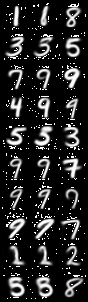
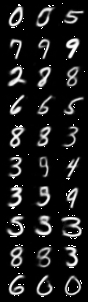
emnist + new triplets"

diff --git a/ambiguous/train/train_MNIST_final_ccvae.py b/ambiguous/train/train_MNIST_final_ccvae.py
@@ -1,6 +1,7 @@
 from distutils.archive_util import make_tarball
 import os
 import importlib
+from pickle import TRUE
 import numpy as np
 import matplotlib.pyplot as plt
 import time
@@ -45,6 +46,7 @@ def main():
     parser.add_argument('--lr', type=float, default=1e-3)
     parser.add_argument('--seed', type=int, default=42)
     parser.add_argument('--device', type=str, default='cuda')
+    parser.add_argument('--dataset', type=str, default='mnist')
     parser.add_argument('--train_path', type=str, default='')
     parser.add_argument('--valid_path', type=str, default='')
     parser.add_argument('--test_path', type=str, default='')
@@ -88,6 +90,7 @@ def main():
     valid_path = args.valid_path 
     test_path = args.test_path
     data_path = args.data_path
+    dataset = args.dataset
     model_path = args.path
     train_cvae = args.train_cvae
     recon_path = args.recon_path
@@ -118,13 +121,26 @@ def main():
     # np.random.seed(seed)
     # torch.manual_seed(seed)
 
-    transform = transforms.Compose([
-        transforms.ToTensor()
-    ])
-    dataset = datasets.MNIST(root=data_path, download=True, train=True, transform=transform)
-    train_set, val_set = torch.utils.data.random_split(dataset, [round(0.8*len(dataset)), round(0.2*len(dataset))])
-    test_set = datasets.MNIST(root=data_path, download=True, train=False, transform=transform)
-    print("Loaded MNIST")
+    if dataset == 'mnist':
+        transform = transforms.Compose([
+            transforms.ToTensor()
+        ])
+        dataset = datasets.MNIST(root=data_path, download=True, train=True, transform=transform)
+        train_set, val_set = torch.utils.data.random_split(dataset, [round(0.8*len(dataset)), round(0.2*len(dataset))])
+        test_set = datasets.MNIST(root=data_path, download=True, train=False, transform=transform)
+        print("Loaded MNIST")
+    elif dataset == 'emnist':
+        transform = transforms.Compose([
+            transforms.ToTensor(),
+            lambda x: x.rot90(1,[2,1]).flip(2)
+        ])
+        dataset = datasets.EMNIST(root=data_path, download=True, split='byclass', train=True, transform=transform)
+        new_dataset = partition_dataset(dataset, range(10, 36))
+        train_set, val_set = torch.utils.data.random_split(new_dataset, [round(0.8*len(new_dataset)), round(0.2*len(new_dataset))])
+        test_set = datasets.EMNIST(root=data_path, download=True, split='byclass', train=False, transform=transform)
+
+    else:
+        print("dataset not supported")
     # Dataloaders
     train_loader = DataLoader(train_set, batch_size=batch_size,shuffle=True)
     val_loader = DataLoader(val_set, batch_size=batch_size)

diff --git a/ambiguous/train/train_vae_readout.py b/ambiguous/train/train_vae_readout.py
@@ -125,7 +125,7 @@ def main():
     test_size = args.test_size
     readout_h_dim = args.readout_h_dim
     device = args.device # torch.device("cuda" if torch.cuda.is_available() else "cpu")
-    root = args.data_path
+    data_path = args.data_path
     seed = args.seed
     np.random.seed(seed)
     torch.manual_seed(seed)
@@ -146,17 +146,26 @@ def main():
     ccvae.load_state_dict(ckpt); ccvae.eval()
     print("Loaded ccvae checkpoint.")
 
-    transform = transforms.Compose([
-        transforms.ToTensor()
-    ])
-    # dataset = RecDataset(ccvae, train_size, n_cls, latent_dim)
-    # train_set, val_set = torch.utils.data.random_split(dataset, [round(0.8*len(dataset)), round(0.2*len(dataset))])
-    # test_set = RecDataset(ccvae, test_size, n_cls, latent_dim)
-    # print("instantiated custom dataset")
-    dataset = datasets.MNIST(root=root, download=True, train=True, transform=transform)
-    train_set, val_set = torch.utils.data.random_split(dataset, [round(0.8*len(dataset)), round(0.2*len(dataset))])
-    test_set = datasets.MNIST(root=root, download=True, train=False, transform=transform)
-    print("Loaded MNIST")
+    if dataset == 'mnist':
+        transform = transforms.Compose([
+            transforms.ToTensor()
+        ])
+        dataset = datasets.MNIST(root=data_path, download=True, train=True, transform=transform)
+        train_set, val_set = torch.utils.data.random_split(dataset, [round(0.8*len(dataset)), round(0.2*len(dataset))])
+        test_set = datasets.MNIST(root=data_path, download=True, train=False, transform=transform)
+        print("Loaded MNIST")
+    elif dataset == 'emnist':
+        transform = transforms.Compose([
+            transforms.ToTensor(),
+            lambda x: x.rot90(1,[2,1]).flip(2)
+        ])
+        dataset = datasets.EMNIST(root=data_path, download=False, split='byclass', train=True, transform=transform)
+        new_dataset = partition_dataset(dataset, range(10, 36))
+        train_set, val_set = torch.utils.data.random_split(new_dataset, [round(0.8*len(new_dataset)), round(0.2*len(new_dataset))])
+        test_set = datasets.EMNIST(root=data_path, download=False, split='byclass', train=False, transform=transform)
+
+    else:
+        print("dataset not supported")
     # Dataloaders
     train_loader = DataLoader(train_set, batch_size=batch_size,shuffle=True)
     val_loader = DataLoader(val_set, batch_size=batch_size)
